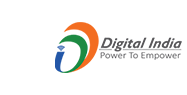
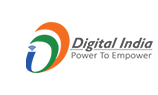
updated commit

Changed region(s): [[0.1519, 0.2316, 0.9873, 0.7789], [0.962, 0.5053, 0.9873, 0.5263]]

diff --git a/index.html b/index.html
@@ -12,7 +12,9 @@
       <h4>Home</h4>
       <h4>About ECI</h4>
       <h4>Contact us</h4>
-      <li><img src="./photos/digital-india.png" id="logo" alt="TLC Logo" /></li>
+      <li>
+        <img src="./photos/digital-india.png" id="logo" alt="TLC Logo" />
+      </li>
     </div>
   </body>
 </html>

diff --git a/style.css b/style.css
@@ -27,10 +27,9 @@ body {
 }
 
 #logo {
-  float: left;
+  float: right;
 }
 
 h4 {
   text-transform: uppercase;
-  float: left;
 }
